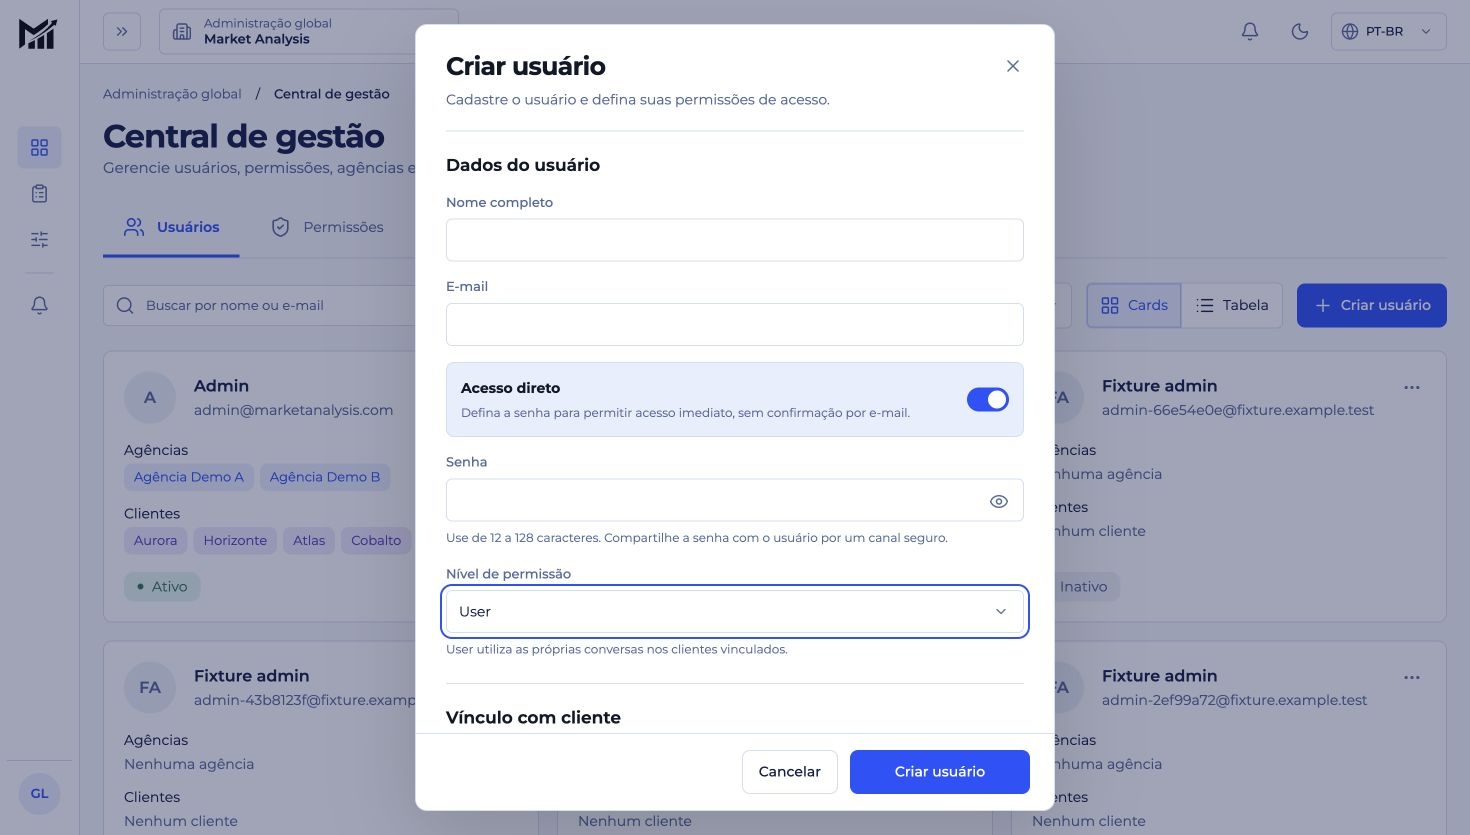
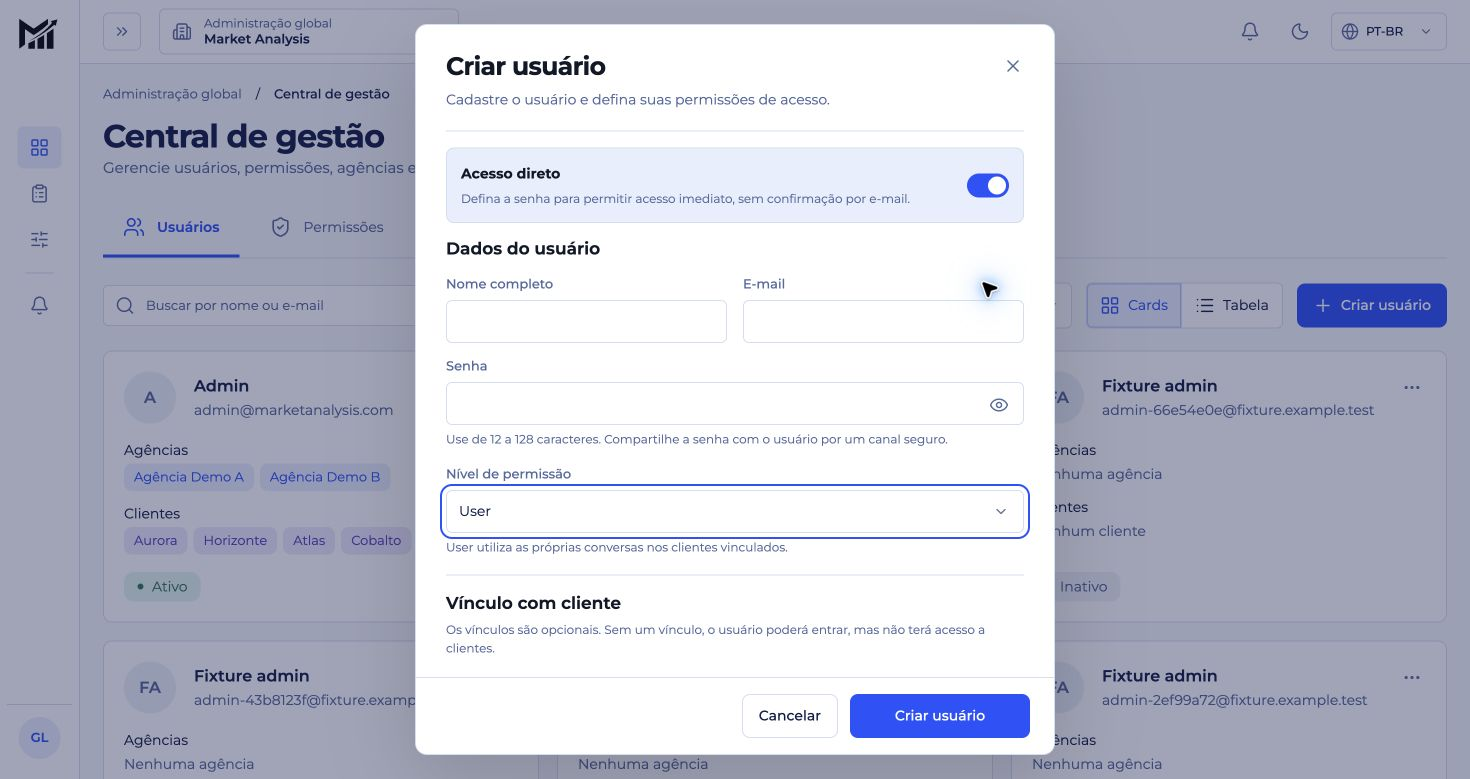
feat: redesign user editor form layout with grid-based identity fields

diff --git a/apps/web/src/pages/management.tsx b/apps/web/src/pages/management.tsx
@@ -853,7 +853,11 @@ function ManagementEditor({
     await mutate(item ? "PATCH" : "POST", result.data);
   }
   return (
-    <form className="management-editor" onSubmit={submit} noValidate>
+    <form
+      className={`management-editor${canCreateDirect ? " management-user-editor" : ""}`}
+      onSubmit={submit}
+      noValidate
+    >
       <div className="management-editor-body">
         {isArchived ? (
           <div className="management-restore">
@@ -867,40 +871,6 @@ function ManagementEditor({
               kind === "agencies" ||
               kind === "clients") && (
               <section className="management-form-section">
-                <h3>{t(`management.details.${kind}`)}</h3>
-                <Field
-                  label={t(kind === "users" ? "auth.name" : "common.name")}
-                  error={fieldError("name")}
-                >
-                  <input
-                    value={values.name}
-                    onChange={(e) => set("name", e.target.value)}
-                    autoComplete="off"
-                    aria-invalid={!!errors.name}
-                  />
-                </Field>
-                {kind === "users" ? (
-                  <Field
-                    label={t("management.email")}
-                    error={fieldError("email")}
-                  >
-                    <input
-                      type="email"
-                      value={values.email}
-                      onChange={(e) => set("email", e.target.value)}
-                      autoComplete="off"
-                      aria-invalid={!!errors.email}
-                    />
-                  </Field>
-                ) : (
-                  <Field label={t("admin.slug")} error={fieldError("slug")}>
-                    <input
-                      value={values.slug}
-                      onChange={(e) => set("slug", e.target.value)}
-                      aria-invalid={!!errors.slug}
-                    />
-                  </Field>
-                )}
                 {canCreateDirect && (
                   <div className="management-direct-access">
                     <div>
@@ -929,6 +899,48 @@ function ManagementEditor({
                     </button>
                   </div>
                 )}
+                <h3>{t(`management.details.${kind}`)}</h3>
+                <div
+                  className={
+                    canCreateDirect
+                      ? "management-user-identity-fields"
+                      : "management-identity-fields"
+                  }
+                >
+                  <Field
+                    label={t(kind === "users" ? "auth.name" : "common.name")}
+                    error={fieldError("name")}
+                  >
+                    <input
+                      value={values.name}
+                      onChange={(e) => set("name", e.target.value)}
+                      autoComplete="off"
+                      aria-invalid={!!errors.name}
+                    />
+                  </Field>
+                  {kind === "users" ? (
+                    <Field
+                      label={t("management.email")}
+                      error={fieldError("email")}
+                    >
+                      <input
+                        type="email"
+                        value={values.email}
+                        onChange={(e) => set("email", e.target.value)}
+                        autoComplete="off"
+                        aria-invalid={!!errors.email}
+                      />
+                    </Field>
+                  ) : (
+                    <Field label={t("admin.slug")} error={fieldError("slug")}>
+                      <input
+                        value={values.slug}
+                        onChange={(e) => set("slug", e.target.value)}
+                        aria-invalid={!!errors.slug}
+                      />
+                    </Field>
+                  )}
+                </div>
                 {canCreateDirect && directAccess && (
                   <>
                     <Field

diff --git a/apps/web/src/pages/management.css b/apps/web/src/pages/management.css
@@ -209,6 +209,19 @@
   font-weight: 650;
   margin: 0 0 0;
 }
+.management-user-editor .management-form-section {
+  padding-block: 16px;
+  gap: 14px;
+}
+.management-identity-fields {
+  display: contents;
+}
+.management-user-identity-fields {
+  display: grid;
+  grid-template-columns: repeat(2, minmax(0, 1fr));
+  gap: 16px;
+  align-items: start;
+}
 .management-modal .field {
   gap: 7px;
   margin: 0;
@@ -380,6 +393,9 @@
   }
 }
 @media (max-width: 700px) {
+  .management-user-identity-fields {
+    grid-template-columns: minmax(0, 1fr);
+  }
   .management-tabs {
     margin-top: 24px;
     gap: 0;
